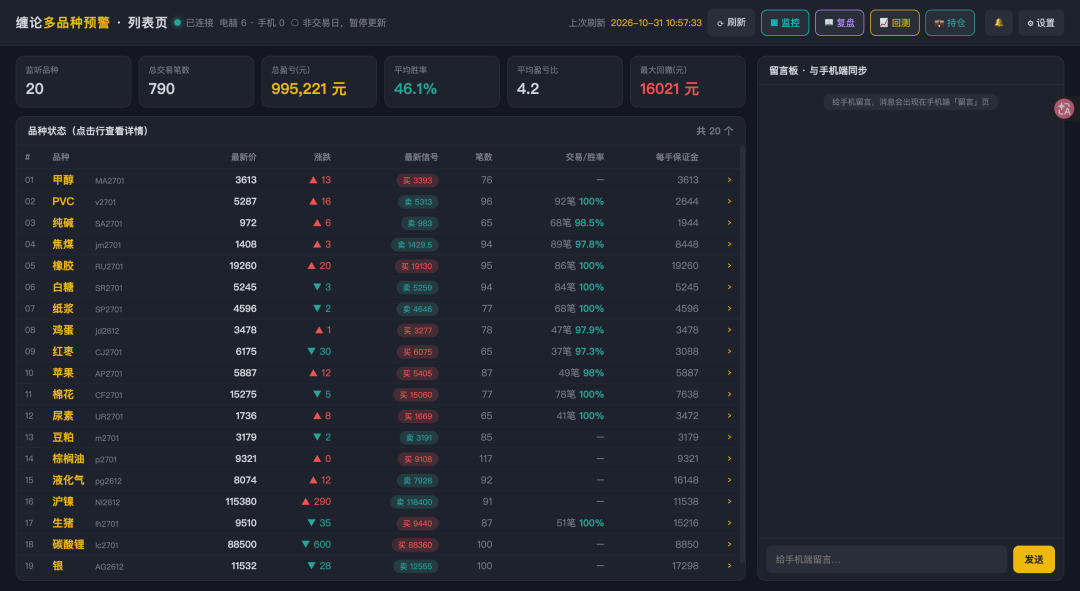
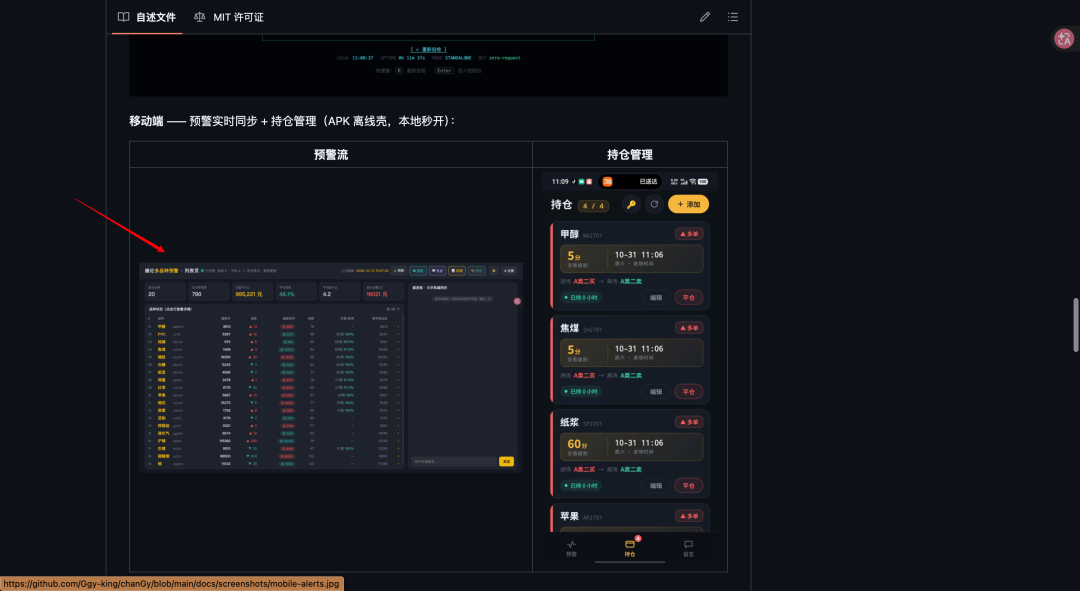
docs: README 重构为图文叙事式；修正列表页/移动端截图错位

diff --git a/README.md b/README.md
@@ -15,102 +15,111 @@
 
 ---
 
-一个**本地运行、单端口、三端覆盖**的期货看盘系统：天勤行情实时推送 → 缠论形态引擎（分型 / 笔 / 中枢 / 买卖点）→ 多品种 × 多级别矩阵监控 → PC 端 9 个页面 + 移动端 + Android APK 离线壳。
+这个项目始于一个很朴素的问题：**盯盘的时候，人到底应该看什么？**
 
-它不是教程级 Demo，而是一个**按生产标准打磨的自用系统**：断线重订阅治理、锁竞争分析、请求限频、快照兜底、17 项 Playwright E2E、运行时状态自动重建——每一层都是为了盘中真实可用而写的。
+做多品种缠论交易，每天要在十几个品种、七八个级别之间来回切换，看的永远是同几样东西：笔走到哪了、中枢有没有出现、信号是确认还是候选。人脑做这种交叉扫描又慢又容易漏，于是这个系统把整条链路自动化了——天勤行情实时进引擎，缠论形态逐级识别，结果按「品种 × 级别」铺成一张矩阵，信号触发的瞬间弹到所有屏幕上。
 
-## 📷 界面展示
+它从第一行代码起就是**给自己每天真实使用**的，所以这个 README 不打算只罗列功能，而是按「一个盯盘者的一天」带你走一遍每个页面，以及这些页面背后踩过的坑。
 
-**形态监控矩阵** —— 全品种 × 全级别实时状态网格，信号触发高亮联动：
+---
 
-![监控矩阵](docs/screenshots/matrix.png)
+## 一、形态监控矩阵：把十几个屏幕压进一张网格
 
-**多品种列表页** —— 最新信号 / 笔数 / 交易笔数 / 每手保证金一览，点击穿透详情：
+每天开盘前，我打开的第一个页面是它。
 
-![列表页](docs/screenshots/overview.png)
+![形态监控矩阵](docs/screenshots/matrix.png)
 
-**缠论详情页** —— 笔自动画线、中枢结构、30 秒级实时刷新、全键盘操作：
+行是级别（60分 / 30分 / 15分 / 5分 / 3分），列是品种，每一个格子实时回答一个问题：**这个品种在这个级别上，缠论结构走到了哪一步**——没有信号（A▲ 观察）、形成候选（B■ 候选）、还是已经确认（▲▼ 确认）。底部的图例把十几种状态全部编码成颜色，扫一眼就能定位全市场最值得注意的角落。
 
-![详情页](docs/screenshots/detail.png)
+这个页面最有意思的设计是**实时事件流**：矩阵下方滚动着每一次信号状态跃迁——「焦煤 3分 B类候选 → 确认」「白银 5分 触发后失效」，每条卡片记录了信号从候选到触发（或消失）的完整生命周期。做完一天行情回看事件流，比看成交记录更能暴露「当时为什么没注意到」。
 
-**持仓卡片** —— 入场 / 离场结构、各级别信号建议、持仓状态与触发生命周期：
+支撑这个页面的工程其实不轻松：全品种全级别逐级计算缠论结构，信号流按分钟持续产出，浏览器与服务的 WebSocket 长连接要在盘中持续保鲜。早期版本深受**盘中卡顿**困扰，最终定位为断线清订阅 × 锁内重登记 × 全局锁竞争的结构性问题，用四层治理解决——快照兜底、点击插队、用户限频、锁内重登记改造，把事件流刷新从每分钟 85 次压到 17 次，卡顿随之消失。这是这个项目里我印象最深的一次性能排查。
+
+## 二、列表页：全局态势一眼尽收
+
+如果说矩阵回答「结构走到哪了」，列表页回答的是更落地的问题——**今天该看谁、做一手要多少钱**。
+
+![多品种列表页](docs/screenshots/overview.png)
+
+每个品种一行：最新价与涨跌、当前最近信号、笔的根数、历史交易笔数，以及**每手保证金**——这一列是我自己坚持加的：期货不像股票按股计价，每手占用的资金差几十倍，下单前看一眼保证金，比事后发现资金不够体面得多。顶部汇总条给出了总盈亏、平均胜率、盈亏比等账户级视图（演示数据），右侧是留言板，手机端改动会实时同步过来。
+
+页面顶部还有一个全局状态条：连接状态、电脑端在线数、是否交易日、行情刷新时刻——任何一处异常，人还没开始盯盘就能发现。
+
+## 三、详情页：缠论的具象化
+
+点进任何一个品种，才到这个系统日常用得最重的页面。
+
+![缠论详情页](docs/screenshots/detail.png)
+
+K线上自动叠着两层东西：**黄色的笔**（分型确认后逐段连接）和各级别的**中枢结构**。图上每一笔的端点都带价格标注，回看历史走势时，一段行情「怎么跌、怎么盘、怎么破」被结构语言翻译得清清楚楚——这也是缠论这个方法论最有价值的地方：它把「感觉」变成了「可检验的位置关系」。
+
+技术层面，这个页面有几个值得一提的点：
+
+- **数据新鲜度**：数据源是天勤推送的，服务端内存里每根K线都是秒级新鲜，前端定时器只负责「抄内存」——30秒级别图表 5 秒一抄，盘中图表几乎与行情同频；
+- **全键盘操作**：`1-9/0` 跳品种、`Q/E` 循环切级别、`W/S` 切品种、`←→` 平移（连续加速，三档手感可调）、`↑↓` 缩放（锚定中心）、`Enter` 回实时、`V` 一键切出**四窗同屏**（60分/15分/3分/30秒 2×2，进场级别自动高亮）——整套操作手不离键盘；
+- **一键止损布防**：按 `A` 直接在图面点选价位，止损线即刻持久化，跨页面跨级别通用；
+- **视角记忆**：每张图表的缩放位置、级别选择按品种和槽位记住，明天打开还是你昨天离开的样子。
+
+## 四、持仓卡片：让交易结构显式化
+
+开仓之前，这个系统强迫你把交易结构说清楚。
 
 ![持仓卡片](docs/screenshots/poscards.png)
 
-**系统自检页** —— 启动即逐项体检，全绿方可进入控制台：
+每一笔持仓是一张卡片：进场信号（A类二买）、离场信号（A类二卖）、交易级别（5分）、进场时间、已持时长，以及当前各级别对这笔仓位的**信号建议**——15分在「观察」、30分在「共振信号」、60分出现了「兑现信号」，全部平铺在卡片上。这样做的原因写在系统的设计笔记里：**历史上亏掉的钱，几乎都不是止损打掉的，而是「感觉要回调」提前平掉的**。所以系统职责是把这些「感觉」翻译成各级别的结构状态，拦住手，而不是替人做决定。
+
+配套的还有平仓阻尼：当一笔标注「止盈」的平仓实际算出负盈亏（或止损平仓算出正数）时，页面会先弹层拦下让你确认——这个功能上线第一天就逮住过一次填反的记录。
+
+## 五、移动端：不在电脑前也不缺席
+
+期货有夜盘，人不可能一直在电脑前。
+
+<table>
+<tr><th align="center">预警流</th><th align="center">持仓管理</th></tr>
+<tr><td><img src="docs/screenshots/mobile-alerts.jpg" width="280"></td><td><img src="docs/screenshots/mobile-positions.jpg" width="280"></td></tr>
+</table>
+
+移动端走的是一条完全独立的链路：**Gitee 私有仓库作为数据权威源**，PC 端任何持仓变更立即后台推送到 Gitee（带 sha 去重与失败重试），手机端直连 Gitee API 读写——不依赖局域网，人在外面也能收预警、改持仓。PC 端写入时先本地生效再异步同步，读的时候限频拉远端回灌，双端并发改同一笔持仓时按 id 合并而不是互相覆盖——这套同步逻辑修过好几个并发坑，是项目里最接近真实分布式问题的一块。
+
+Android 端是 WebView 离线壳：本地 file:// 秒开、连上电脑后自动切在线页，预警流与 PC 端同一套 WebSocket 广播。
+
+## 六、系统自检：仪式感背后的工程
+
+每天第一次打开，先看到这个：
 
 ![系统自检](docs/screenshots/health.png)
 
-**移动端** —— 预警实时同步 + 持仓管理（APK 离线壳，本地秒开）：
+天勤连接、交易日历、监控开关、扫描心跳、事件流、Gitee 链路、数据五件套、连续运行时长……12 项检查逐行打勾，全部通过才放行进入控制台，有任何一项红灯就停在这一页。它看着像彩蛋，实际是运维面板：某一晚服务悄悄挂过、某个数据文件没生成、Gitee 凭据过期，第二天开机第一眼就会被告知，而不是盘中才发现。
 
-| 预警流 | 持仓管理 |
-|---|---|
-| ![移动端预警](docs/screenshots/mobile-alerts.jpg) | ![移动端持仓](docs/screenshots/mobile-positions.jpg) |
+---
 
-## ✨ 功能特性
+## 🧠 缠论形态引擎（`chanlun/`）
 
-### 🧠 缠论形态引擎（`chanlun/`）
+以上所有页面的地基，是一条纯 Python 的结构识别链：
 
-- **K线包含合并**（`kline_merge.py`）—— 处理向上/向下包含关系，生成标准K线序列
-- **顶底分型识别**（`fenxing.py`）—— 分型判定与确认逻辑
-- **笔的构建**（`bi.py`）—— 支持多种笔算法与严格/兼容分模式，可配置笔端点是否要求极值
-- **中枢分析**（`zs.py`）—— 三笔重叠成枢，支持中枢扩展 / 合并 / 首笔定位多种口径；中枢震荡、结构区间浮层可视化
-- **买卖点识别**（`pattern.py`）—— A类趋势反转（二买二卖，支持严格 / bars / fusion 三档背驰确认口径，30% 深度可调）、B类三买三卖（候选 / 触发两级推送），多空双向
-- **顺大逆小影子打标** —— 3→15 / 5→30 / 15→60 / 30→60 单父链漂移检测，逆大势信号只标记不拦截
+- **K线包含合并**（`kline_merge.py`）—— 处理向上/向下包含关系，生成标准K线序列，这是后面一切的地基
+- **顶底分型**（`fenxing.py`）—— 分型判定与确认，支持不同的确认严格度
+- **笔**（`bi.py`）—— 多种笔算法与严格/兼容分模式，笔端点可配置是否要求极值
+- **中枢**（`zs.py`）—— 三笔重叠成枢，支持扩展 / 合并 / 首笔定位多种口径；中枢震荡与漂移检测支撑「顺大逆小」影子打标（3→15 / 5→30 / 15→60 / 30→60 单父链）
+- **买卖点**（`pattern.py`）—— A类趋势反转（二买二卖，背驰确认支持严格 / bars / fusion 三档口径）与 B类三买三卖（候选 / 触发两级推送），多空双向全级别扫描
 
-### 🚨 实时预警体系
+## 🚀 持仓与风控
 
-- 多品种 × 多级别形态矩阵监控，信号触发 WebSocket 弹卡推送
-- 跨浏览器去重、历史补弹、确认卡强制确认（未成笔 / 已成笔徽标）
-- 价格预警线拖拽布防、预警事件持久化
-- 移动端 APK 秒级同步（Gitee 数据源，手机不在局域网也能收）
+- 三价出场体系：硬止损 / 保本 / 止盈锚三线联动，现价判决由前端实时复算
+- 一键止损布防：图面点选或键盘触发，逐品种持久化，跨页面通用
+- 平仓阻尼：止盈出负数 / 止损出正数时页内拦截确认
+- 仓位纪律：单笔风险 2% 口径的审计视图（缺数据时静默跳过）
 
-### 🚀 持仓驾驶舱
+## 📖 复盘与审计
 
-- 观察块 → 正式持仓的完整生命周期：进场 / 离场结构登记、持仓时长、编辑 / 平仓
-- **三价出场体系**：硬止损 / 保本 / 止盈锚三线联动，现价判决实时复算
-- **平仓阻尼拦截**：止盈平仓出负数 / 止损平仓出正数时页内弹层拦下，防手滑
-- 一键止损线布防（图面点选 / 键盘触发），逐品种持久化
+- 三级自动审计（certain / suspect / info）：信号流 × 交易流水做数据 diff，人只负责主观确认
+- 体系疑问清单：逐条追加结论 / 解决 / 否决，长期沉淀对市场的理解
+- 周报 / 月复盘视图，LLM 分析接入可选（`agent/`，含周复盘分析师与工具链）
 
-### 📖 复盘与审计
+## 🩺 系统自检与诊断
 
-- **三级自动审计**（certain / suspect / info）：信号流 × 交易流水数据 diff，人只做主观确认
-- 体系疑问清单：逐条追加结论 / 解决 / 否决，不是一次性填空
-- 周报 / 月复盘视图，LLM 分析接入可选（`agent/`）
-
-### 🔄 多机数据同步
-
-- Gitee 私有仓库作为数据权威源，PC 端写 = 本地立即生效 + 后台线程推送（失败重试 + sha 去重）
-- 写前强拉合并，双端并发修改不互相覆盖
-- 手机端直连 Gitee API 读写，不依赖局域网
-
-### 🩺 系统自检
-
-- 启动 / 常驻两级自检页：天勤连接、交易日历、监控开关、扫描心跳、事件流、Gitee 链路、数据五件套等 12 项检查
-- 全绿横幅 + 倒计时自动进入控制台，红灯留人排查
-
-### ⌨ 全键盘操作（本级别视角不间断）
-
-| 按键 | 功能 |
-|---|---|
-| `1-9` / `0` | 跳转热键区品种（顺序 = 服务端配置） |
-| `Shift+1 ~ 0` | 跳转第 11-20 位品种 |
-| `W` / `S` | 上 / 下切换品种 |
-| `Q` / `E` | 循环切换级别（日线 → 30秒绕回，含持久化） |
-| `←` `→` | K线平移（连续加速：起步渐快、松手即停，三档速率可调） |
-| `↑` `↓` | 缩放（长按连续，锚定可视区中心） |
-| `V` | **四窗多级别同屏**（60分 / 15分 / 3分 / 30秒 2×2，进场级别自动高亮） |
-| `Enter` | 图表回到实时 |
-| `A` | 一键止损布防 |
-| `T` | 跳转持仓页 |
-| `Backspace` | 返回入口页（四窗状态先退四窗） |
-| `?` | 快捷键速查卡 |
-
-### 🩺 其他工程细节
-
-- 盘中卡顿四层治理：快照兜底 / 点击插队 / 用户限频 / 锁内重登记改造，事件流刷新 85 → 17 次/分钟
-- 运行时状态（K线缓存 / 监控开关 / 浏览器偏好）全部 localStorage + json 自动重建，零人工维护
-- `/api/sysdiag` 系统诊断：项目规模 / 数据体积 / 运行环境，首次访问算一次永久缓存
+- 两级自检页（启动 splash / 常驻页），12 项检查逐项打勾
+- `/api/sysdiag` 系统诊断：项目规模 / 数据体积 / 运行环境，首次访问计算后永久缓存，绝不重复消耗性能
 
 ## 🚀 快速开始
 
@@ -127,35 +136,41 @@ python server.py                # 或 python server.py -y 跳过交互菜单
 # 打开 http://127.0.0.1:8000
 ```
 
-可选配置：
-- `data/gitee_conf.example.json` → 复制为 `gitee_conf.json` 并填入你自己的 Gitee 私有仓库信息，启用 PC/手机持仓同步
-- 首次运行后 `data/` 会自动生成运行时状态文件（K线缓存、监控开关、自检基线等），无需手工准备
+可选：`data/gitee_conf.example.json` → 复制为 `gitee_conf.json` 填入你自己的 Gitee 私有仓库信息，启用 PC/手机同步。`data/` 其余文件运行时自动重建，无需手工准备。
 
-## ⚙ 配置文件一览
+## ⌨ 键盘速查
 
-| 文件 | 用途 | 必须 |
-|---|---|---|
-| `secret.py` | 天勤账号（支持多账户启动菜单） | ✅ |
-| `data/gitee_conf.json` | Gitee 同步凭据（见 example 模板） | 可选 |
-| `data/contracts.json` | 品种清单与顺序（服务端权威，前端只读） | 自动生成 |
-| `data/*.json` 其余 | 运行时状态，缺失时自动重建 | 自动生成 |
+| 按键 | 功能 |
+|---|---|
+| `1-9` / `0` | 跳转热键区品种 |
+| `Shift+1 ~ 0` | 跳转第 11-20 位品种 |
+| `W` / `S` | 上 / 下切换品种 |
+| `Q` / `E` | 循环切换级别 |
+| `←` `→` | K线平移（连续加速三档） |
+| `↑` `↓` | 缩放（锚定中心） |
+| `V` | 四窗多级别同屏（60/15/3/30秒） |
+| `Enter` | 回到实时 |
+| `A` | 一键止损布防 |
+| `T` | 跳转持仓页 |
+| `Backspace` | 返回（四窗状态先退四窗） |
+| `?` | 速查卡 |
 
 ## 🧪 测试体系
 
 ```bash
-.venv/bin/python tests/test_hotkeys.py    # 全局热键 E2E（17 项）
+.venv/bin/python tests/test_hotkeys.py
 ```
 
-Playwright E2E 覆盖：跳品种 / Shift 档 / 输入法守卫 / Backspace 分层返回 / 级别循环 / 方向键连续加速 / 四窗开合 / 止损布防 / 速查卡。更多专项：矩阵渲染、驾驶舱止损菜单、移动端弹层等（见 `tests/`）。
+Playwright E2E 覆盖：跳品种 / Shift 档 / 输入法守卫 / Backspace 分层返回 / 级别循环 / 方向键连续加速 / 四窗开合 / 止损布防 / 速查卡，另有矩阵渲染、驾驶舱菜单、移动端弹层等专项（见 `tests/`）。每个修复过的缺陷都会沉淀为回归用例。
 
 ## 🤖 AI 协作开发模式
 
-本项目全部代码以 **AI Agent 协作模式**开发，沉淀出一套可复用的工作流：
+本项目全部代码以 **AI Agent 协作模式**开发：
 
 1. **需求规格化** —— 先在对话中对齐口径与边界，形成可执行规格再动工
-2. **AI 实现** —— 按 spec 生成代码，大规模改动前先出方案确认
-3. **体感验收** —— 真实运行中凭使用体验发现缺陷（例：三档调速「体感无差异」→ 追出 rAF 状态机退出缺陷）
-4. **回归兜底** —— 每个修复沉淀为 E2E 用例，防止退化
+2. **AI 实现** —— 按 spec 生成代码，大改动前先出方案确认
+3. **体感验收** —— 真实使用中凭体感发现缺陷（例：三档调速「体感无差异」→ 追出 rAF 状态机退出缺陷）
+4. **回归兜底** —— 每个修复沉淀为 E2E 用例
 
 ## ⚠ 免责声明
 
